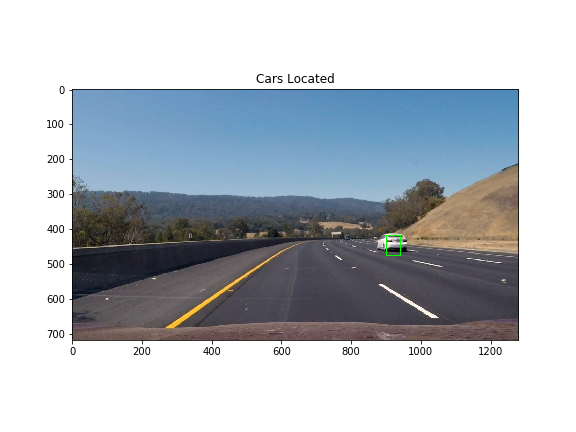
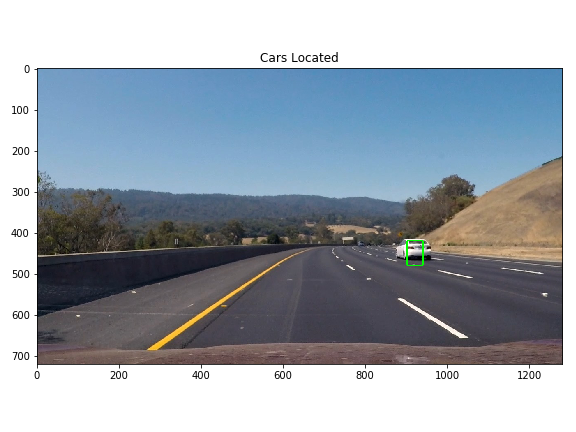
Submission

diff --git a/image_screener.py b/image_screener.py
@@ -254,32 +254,31 @@ for frame in road_images:
     fig = plt.figure(figsize=(8,6))
     plt.imshow(draw_img)
     plt.title('Cars Located')
-    #fig.tight_layout()
+    fig.tight_layout()
     imagefilename="./output_images/figure10_"+str(i)+".png"
     plt.savefig(imagefilename)
     i += 1
 
     fig = plt.figure(figsize=(8,6))
     plt.imshow(test_boxes)
-    plt.title('80 pixel Sliding Window Search')
-    #plt.title('Window Search Hits')
-    #fig.tight_layout()
-    #plt.savefig("./output_images/figure8.png")
-
+    #plt.title('80 pixel Sliding Window Search')
+    plt.title('Window Search Hits')
+    fig.tight_layout()
+    plt.savefig("./output_images/figure8.png")
 
     heat = car_values.getlastheatval()
     heat = heat * 40
     fig = plt.figure(figsize=(8,6))
     plt.imshow(heat,cmap='hot')
     plt.title('Heat Map')
-    #fig.tight_layout()
-    #plt.savefig("./output_images/figure9.png")
+    fig.tight_layout()
+    plt.savefig("./output_images/figure9.png")
 
     fig = plt.figure(figsize=(8,6))
     plt.imshow(histheat,cmap='hot')
     plt.title('Thresholded Binary Heat Map')
-    #plt.savefig("./output_images/figure9a.png")
-    #fig.tight_layout()
+    fig.tight_layout()
+    plt.savefig("./output_images/figure9a.png")
 
     #plt.imshow(heat,cmap='hot')
-'''
+#'''

diff --git a/Assignment5.TonyKnight.md b/Assignment5.TonyKnight.md
@@ -4,19 +4,20 @@
 
 <img src="https://github.com/teeekay/CarND-Vehicle-Detection/blob/master/output_images/videograb00002.png?raw=true"  width=1000>
 
-<i><u>Figure 1 Snapshot from Vehicle Detection Video</u></i>
+<i><u>Figure 1: Snapshot from Vehicle Detection Video</u></i>
 
 ---
 
 
 ### Writeup by Tony Knight - 2017/06/01 
 
+## Training
 
-#### Training Set
+### Training Set
 
-I decided to use the GTI data set as the basis for training the Support Vector Machine Classifier.  However, this data set was slightly imbalanced, with more images which were "non-vehicles" than images of vehicles.  I supplemented the car dataset with 1200 images of cars from the KITTI dataset, producing a total of 4023 images of cars and 4047 images of non-cars in the dataset.  I also added a few samples of "curated" non-car images taken from the project video in order to attempt to train the classifier away from some negative hits.  
+I decided to use the GTI data set as the basis for training the Support Vector Machine Classifier.  However, this data set was slightly imbalanced, with more images which were "non-vehicles" than images of vehicles.  I supplemented the car dataset with 1200 images of cars from the KITTI dataset.   I also added a few samples of "curated" non-car images taken from the project video in order to attempt to train the classifier away from some false positive hits.  This resulted in a total of 4023 images of cars and 4047 images of non-cars (which I trimmed to 4023) in the training dataset .    
 
-For the test dataset I used images of cars from the KITTI dataset (excluding those used in the training set) and non-car images from the extras dataset (taken from the video).  Figure 2 shows images of "cars" and "non-cars" used in the training and test sets.
+For the test dataset I used images of cars from the KITTI dataset (excluding those used in the training set) and non-car images from the extras dataset (taken from the video).  Figure 2 shows images of "cars" and "non-cars" used in the training and test sets.  I took a random sample of approximately 800 images (20% of the size of the training set) from each category in the test set to evaluate the performance of the classifier.
 
 ---
 
@@ -26,12 +27,11 @@ For the test dataset I used images of cars from the KITTI dataset (excluding tho
 
 ---
 
-### Training 
+### Training Features
 
-I decided to use a combination of the color and histogram of gradients (HOG) features to characterize each image patch.  I wanted to make the size of the patches as small as possible in  order to speed up processing during image analysis.  I decided that I would resize the image patches to 16x16 pixels to extract the HOG, and 8x8 pixels to extract color information.  Based on initial tests with the test images I decided to use the YCrCb color space, and to use all 3 of the color channels in the HOG analysis.
+I decided to use a combination of the color and histogram of gradients (HOG) features to characterize each image patch.  I wanted to make the size of the patches as small as possible in  order to speed up processing during image analysis.  I decided that I would resize each image patch to 16x16 pixels to extract the HOG, and 8x8 pixels to extract color information.  Based on initial tests with the test images I decided to use the YCrCb color space, and to use all 3 of the color channels in the HOG analysis.
 
-
-### Histogram of Oriented Gradients (HOG)
+#### Histogram of Oriented Gradients (HOG)
 
 ---
 
@@ -41,24 +41,23 @@ I decided to use a combination of the color and histogram of gradients (HOG) fea
 
 ---
 
-The code to run the HOG analysis is contained in function `extract_features()` and in function `get_hog_features()` in [feature_extraction.py](https://github.com/teeekay/CarND-Vehicle-Detection/blob/master/feature_extraction.py) on lines 94 through 117, and lines 5 to 16 respectively.  The scikit implementation of `hog()` was called from these functions to calculate the HOG features
+The code to run the HOG analysis is contained in function `extract_features()` and in function `get_hog_features()` in [feature_extraction.py](https://github.com/teeekay/CarND-Vehicle-Detection/blob/master/feature_extraction.py) on lines 94 through 117, and lines 5 to 16 respectively.  The scikit implementation of `hog()` was called from `get_hog_features()` to calculate the HOG features.
 
-
-I tried various combinations of parameters and ended up using 4 pixels per side on cells, and using 2x2 cells in a block.  This resulted in a total of 3x3 histograms of gradients from each image.  Part of the reason for selecting this size, was it facilitated implementation of a sliding window with overlap ratios of 0.25, or 0.5 when only calculating HOGs once on the whole image (as 4 histograms are passed over (3 in the patch and one on the boundary of the patch) when sliding a window across the width of a patch in one direction).
+I tried various combinations of parameters and ended up using 4 pixels per side on cells, and using 2x2 cells in a block.  This resulted in a total of 3x3 blocks of 2X2 cells of histograms of gradients from each image.  Part of the reason for selecting this size, was it facilitated implementation of a sliding window with overlap ratios of 0.25, or 0.5 when only calculating HOGs once on the whole image (as 4 blocks are passed over (3 in the patch and one on the boundary of the patch) when sliding a window across the width of a patch in one direction).
 
 I chose to use 9 bins for the orientations of the histograms as it produced good results and using more bins did not improve results.
 
 The selection of these parameters resulted in 3x3x2x2x9=324 HOG features for each  of the 3 color channels on the image patch (972 total). 
 
-I set transform_sqrt to True, even though this slightly increased the hog calculation time, as it appeared to produce better results when I tested the implementation on the video.    
+I set transform_sqrt to True, (normalizing features before calculating HOG) even though this slightly increased the HOG calculation time, as it appeared to produce better results when I tested the implementation on the video.
 
 #### Color features
 
-Using a patch size of 8x8 pixels, the color distribution for each of the Y, Cr and Cb color channels was split between 16 histogram bins in function `color_hist()` in [feature_extraction.py](https://github.com/teeekay/CarND-Vehicle-Detection/blob/master/feature_extraction.py) (lines 32 to 45)  resulting in 48 features.  The value of each pixel in each color channel was also used as a feature resulting in 3x8x8 = 192 features.
+Using a patch size of 8x8 pixels, the color distribution for each of the Y, Cr and Cb color channels was split between 16 histogram bins in function `color_hist()` in [feature_extraction.py](https://github.com/teeekay/CarND-Vehicle-Detection/blob/master/feature_extraction.py) (lines 32 to 45)  and produced 48 features.  The value of each pixel in each color channel was also unraveled in function `bin_spatial()` (lines 19 to 29) and produced 3x8x8 = 192 features.
 
 #### Scaler
 
-The values of the 3 types of features were normalized using Scikits StandardScaler which was fit to the training set on line 99 of [combofeatures.py](https://github.com/teeekay/CarND-Vehicle-Detection/blob/master/combofeatures.py).  Figure 4 and 5 show images of cars and non-cars in the training set, and the resulting plots of features before and after normalization. 
+The values of the 3 types of features (Color Histogram, Color Distribution, HOG) were normalized using Scikit's `StandardScaler()` which was fit to the training set on line 99 of [combofeatures.py](https://github.com/teeekay/CarND-Vehicle-Detection/blob/master/combofeatures.py).  Figures 4 and 5 show images of cars and non-cars in the training set, and the resulting plots of features before and after normalization. 
 
 ---
 
@@ -71,9 +70,9 @@ The values of the 3 types of features were normalized using Scikits StandardScal
 ---
 
 
-#### Training 
+### Training Classifier
 
-A linear SVM classifier was trained in [combofeatures.py](https://github.com/teeekay/CarND-Vehicle-Detection/blob/master/combofeatures.py) between lines 150 and 175. I adjusted the value of C between 0.1 and 1000 by orders of magnitude, but found there was little change in accuracy results on the test set.  The accuracy rates ranged between a low of 92.7 when C was 0.1 and a high of 93.7 when C was set at 10, and back down to 93.1 at C=1000 (The results are shown in figure 6)
+Scikit's `LinearSVC()` SVM classifier was trained and tested in [combofeatures.py](https://github.com/teeekay/CarND-Vehicle-Detection/blob/master/combofeatures.py) between lines 165 and 176.  I adjusted the value of the C hyperparameter between 0.1 and 1000 in steps of orders of magnitude, but found there was little change in accuracy results on the test set.  The accuracy rates ranged between a low of 92.7 when C was 0.1 and a high of 93.7 when C was set at 10, and back down to 93.1 at C=1000 (The results are shown in figure 6)
 
 The error rate generally was due to false positives for detection of cars on images that weren't cars.  Almost all car images were identified as cars.
 
@@ -88,7 +87,15 @@ The error rate generally was due to false positives for detection of cars on ima
 
 ### Sliding Window Search
 
-I initially set up a sliding image search with 5 sizes of windows (edge lengths 40 pixels, 80 pixels, 120 pixels and 200 pixels).  After experimentation, and specifically after visualizing the response when using each size window, I realized that I was able to obtain the best results when using 80 pixel windows alone.  The smaller 40 pixel wide windows did not detect smaller cars on the horizon, but took a large amount of processing time, so I also dropped them.   I found that the use of windows larger than 80 pixels width added more false positives, but did not really add any better detection of cars that were not picked up by the 80 pixel windows.  Furthermore, I limit false positives in the videostream by using a buffer of heat images, and thresholding pixels that have had heat for a specified number of frames.  However, with the larger windows, I found that this caused larger areas to remain hot for long periods and preventing this required the use of a large history threshold (up to 15 frames) which caused a significant delay in displaying valid hits.  Removal of the larger window sizes enabled the history threshold to be reduced down to 5 frames, enabling much faster display of detected cars.   Figure 7 shows the grid of 80 pixel wide windows overlapping at a ratio of 0.25 across an example image frame.
+I initially set up a sliding image search with 5 sizes of windows (edge lengths 40 pixels, 80 pixels, 120 pixels and 200 pixels).  I ran tests with overlap ratios of 0.5 and 0.25, and found that 0.25 produced better results.  After experimentation, and specifically after visualizing the response when using each size window, I realized that I was able to obtain the best results when using 80 pixel windows alone.  
+
+Use of the smaller 40 pixel wide windows did not detect smaller cars on the horizon, but required a large amount of processing time, so I dropped them.
+
+I found that the additional use of windows larger than 80 pixels width added more false positives, but did not really add any better detection of cars that were not picked up by the 80 pixel windows.  The program attempts to limit displaying false positives in the videostream by using a buffer of heat image frames, and thresholding for pixels that have had heat for a specified number of frames.  However, when using the larger windows, I found that large areas remained "hot" for long periods in areas where false positives were detected. The history buffer threshold had to be increased to a relatively large threshold (up to 15 frames) to eliminate these false positives.  This had negative effect of causing a significant delay in displaying valid detection of new cars.
+
+Removal of the larger window sizes enabled the history threshold to be reduced down to 5 frames, which resulted in much faster response to detected cars.
+
+Figure 7 shows the grid of 80 pixel wide windows overlapping at a ratio of 0.25 across an example image frame.
 
 ---
 
@@ -98,9 +105,9 @@ I initially set up a sliding image search with 5 sizes of windows (edge lengths 
 
 ---
 
-The sliding windows algorithm was implemented in the function `process_windows()` in [MultiWindow.py](https://github.com/teeekay/CarND-Vehicle-Detection/blob/master/MultiWindow.py).  I attempted to optimize the algorithm with a single run on the HOG gradients for the entire image strip that the sliding windows passed over for each window size.  Implementing this caused me to resize the HOG window size (as described above) to 16x16 so that it was easier to set up specific overlap ratios with this method.
+The sliding windows algorithm was implemented in the function `process_windows()` in [MultiWindow.py](https://github.com/teeekay/CarND-Vehicle-Detection/blob/master/MultiWindow.py).  I attempted to optimize the algorithm with a single run on the HOG gradients for the entire image strip that the sliding windows passed over for each window size.  Implementing this feature caused me to resize the HOG window size (as described in the HOG features section above) to 16x16 so that it was easier to set up specific overlap ratios with this method.
 
-Figures 8, 9 and 10 illustrate the process of car detection;  In figure 8 the SVM has identified overlapping patches as containing car(s).  In Figure 9 the pixels in the overlapping patches have been summed to create a heatmap. In figure 10 a bounding box has been drawn to encompass all pixels with heat values in excess of a threshold value, and this corresponds approximately to the car location(s). 
+Figures 8, 9 and 10 illustrate the process of car detection with sliding windows;  In figure 8, the SVM has identified overlapping patches as containing car(s).  In Figure 9, the pixels in the overlapping patches have been summed to create a heatmap. In figure 10, a bounding box has been drawn to encompass all contiguous pixels with heat values in excess of a threshold value, corresponding approximately to the car location(s). 
  
 ---
 
@@ -122,7 +129,7 @@ Figures 8, 9 and 10 illustrate the process of car detection;  In figure 8 the SV
 
 ---
 
-The following images demonstrate how the process was able to correctly identify the cars on all of the images in the test_images folder without false positives.  A threshold heat value of 4 was used to discriminate against false positives.
+The following images demonstrate how the process was able to correctly identify the cars on all of the images in the test_images folder without false positives.  A threshold heat value of 4 was used to discriminate against false positives (a history threshold of 1 was used as only one frame was analyzed).
 
 ---
 
@@ -141,41 +148,63 @@ The following images demonstrate how the process was able to correctly identify 
 ### Video Implementation
 
 
-Here's my [project_video](./project_video_outputA.mp4). The code to generate the video is called from [videoprocessor.py](https://github.com/teeekay/CarND-Vehicle-Detection/blob/master/videoprocessor.py) and in [image_screener.py](https://github.com/teeekay/CarND-Vehicle-Detection/blob/master/image_screener.py).  I was also able to add in my code from the lane detection project to enable a combined output of lane detection and vehicle detection.
+Here's a link to my [project_video](./project_video_outputA.mp4). The code to generate the video is called from [videoprocessor.py](https://github.com/teeekay/CarND-Vehicle-Detection/blob/master/videoprocessor.py) and in [image_screener.py](https://github.com/teeekay/CarND-Vehicle-Detection/blob/master/image_screener.py).  I was also able to add in my code from the lane detection project to produce a combined output of lane detection and vehicle detection.
 
-### Filtering strategy for video
+#### Filtering strategy for video
 
-The combination of the hard edge on the median wall, which occasionally generates false positives on it's own, and partial views of cars above the median wall combine to create heat values above the threshold value.  
+The combination of the hard edge on the median wall, which occasionally generates false positives on its own, and the partial views of cars above the median wall combine to create heat values above the threshold value.  
 
-I implemented a circular buffer (lines 111 to 137 of image_screener.py)  into which I put frames of the heat values generated so that I could threshold the heat values based of the numbers of "hits" on each pixel in the buffer.  For example I could set up the buffer to hold 20 frames, and threshold pixels that had hits on 15 of the frames in the buffer.  I found this level of "history threshold" was required when I was using multiple size windows.  This resulted in a more than 0.5 second delay after a car was first seen before it could be displayed, which I did not consider to be optimal.
+I implemented a circular buffer (lines 111 to 137 of [image_screener.py](https://github.com/teeekay/CarND-Vehicle-Detection/blob/master/image_screener.py)) into which I put frames of the heat values generated so that I could threshold the heat values based on the numbers of "hits" on each pixel in the buffer.  For example, I could set up the buffer to hold 20 frames, and threshold pixels that had hits on 15 of the frames in the buffer.  I found this level of "history threshold" was required when I was using multiple size windows.  This resulted in a more than 0.5 second delay after a car was first seen before it could be displayed, which I did not consider to be optimal.
 
-I adjusted the buffer so that I could store heat values obtained individually for each size (up to 3 in implementation) window used.  This allowed me to display the heat generated from each window size at the right of the output video to better see what was going on.  Once I did this, I realized that I only really needed to use the one size of window (80 pixels per side).  When I reverted to using only size 80 pixel windows, I found that the history threshold could be reduced to 5 frames in a 7 frame buffer to get a good result with occasional false positives at the left of the screen.  
+I adjusted the buffer so that I could store heat values obtained individually for each size window used.  This allowed me to display the heat generated from each window size at the right of the output video to better visualize what was going on.  Once I did this, I realized that I only really needed to use the one size of window (80 pixels per side).  When I reverted to using only size 80 pixel windows, I found that the history threshold could be reduced to 5 frames in a 7 frame buffer to get relatively good results with only occasional false positives at the left side of the screen.  
 
-Another issue in this implementation of the history threshold is during situations where the car goes over a bump, all the objects are displaced rapidly in the image for a few frames, which might cause the history threshold to prevent them from being displayed.  Also oncoming cars may move across the screen too fast to allow detection if the the history threshold is set too high.
+An issue in this implementation of the history threshold is that when the car goes over a bump (22.5s to 24 s in the video), all the objects are displaced rapidly in the image for a few frames, which causes the history threshold to prevent detected objects from being displayed.  The history threshold may also prevent oncoming cars from being displayed well as they could move across the screen too fast to allow detection in the same area of the screen on subsequent frames.
 
-When determining the appropriate heat threshold to use, I had to consider both eliminating false positives, but also maintaining detection of faint positives (e.g. the white car at t=24 to 30s) for as long as possible.  I selected a threshold of 5 which worked relatively well, but I have thought of other possible strategies to improve overall detection (maybe tying the threshold to the vertical position so that the threshold is decreased as the item moves up the screen (and becomes smaller)).
+When determining the appropriate heat threshold to use, I had to consider both eliminating false positives, but also maintaining detection of faint positives (e.g. the white car at t=24 to 30s) for as long as possible.  The optimal heat threshold was between 4 and 5, and I selected 5 which worked relatively well, but did eliminate the white car detection in some sections of the video where it was detected at a value of 4. 
 
-### Bounding Boxes
+I have thought of other possible strategies to improve overall detection (including tying the heat threshold to the vertical position so that the threshold is decreased as the item moves up the screen (and becomes smaller)).
 
-The functions to create and threshold heatmaps and then generate bounding boxes around the label instances are located in image_screener.py between lines 32 and 92.   
+#### Bounding Boxes
+
+The functions to create and threshold heatmaps and then generate bounding boxes around the label instances are located in [image_screener.py](https://github.com/teeekay/CarND-Vehicle-Detection/blob/master/image_screener.py) between lines 32 and 92. As discussed above, the heat values are calculated by incrementing the value at each pixel for every window it is contained in that the SVM identifies as being a car.  In each frame, these values are thresholded so values below the threshold are set to 0.  All the remaining values are set to 1.  The sum of pixels across the multiple frames in the buffer is calculated and this is used to threshold the heat values so any pixels where the buffer total is less than the history_threshold are also set to zero.  This produces a binary image as shown in figure 12.  
+
+---
+
+<img src="https://github.com/teeekay/CarND-Vehicle-Detection/blob/master/output_images/figure9a.png?raw=true"  width=700>
+
+<i><u>Figure 12: Binary Thresholded Image of Heat Values</u></i>
+
+---
+
+SciPy's `ndimage.measurements.label()` function is called to locate the separate contiguous instances of thresholded values in the binary image.  The `draw_labeled_bboxes()` function on lines 68 to 92 of image_screener.py extracts the top left and bottom right co-ordinates of the labelled areas, and then draws bounding boxes.  For this video, the function was optimized to draw the boxes in different colors, and to attempt to maintain the same object in the same color for as long as possible.  The `label()` function produces a list sorted from the top to bottom of the image.  Since the main targets in the video were located on the right side of the image, the box locations were re-sorted by their right hand co-ordinates to make boxes at the right side of the image the first targets drawn.
 
 
-### Classifier Improvement
+#### Classifier Improvement
 
-The classifier was often triggered by the yellow lines and median barrier (possibly in combination with one or two distinct spots) at the left side of the lane.  I attempted to improve performance by adding a set of images cropped from these areas and adding them to the training set as non-car images.  I did not see as much response from the yellow lines after this, but the median barrier continued to trigger the classifier.  I may not have added enough images at the correct scale to provide enough negative results to prevent false positives in this situation.
+The classifier often detected false positives on patches containing the yellow lines and median barrier (possibly in combination with one or two distinct spots) at the left side of the lane.  I attempted to improve performance by cropping a set of images from these areas (in space and time) of the video and adding them to the training set as non-car images.  I did not see as much response from the yellow lines after this, but the median barrier continued to trigger the classifier.  I may not have added enough images of the top of the median at the correct scale to bias the classifier against this image.
 
+As discussed above, in the training section, I explored the effect of adjusting the Hyperparameter value used in the classifier, and adjusted the value of C to 10 from the default of 1 for a small improvement in accuracy.
 
 ### Discussion
 
+#### Speed of Implementation
+
 I found that on my computer, the car detection algorithm took approximately 0.12 seconds per frame which is about 1/6th the speed required (although when combined with the lane detection it took about 0.5 secs per frame).  I think the code could be optimized and rewritten in C to run fast enough to produce real-time output.  However, convolutional neural network approaches like [YOLO](https://pjreddie.com/darknet/yolo/) and [YOLT](https://medium.com/the-downlinq/you-only-look-twice-multi-scale-object-detection-in-satellite-imagery-with-convolutional-neural-38dad1cf7571) look like they would be more flexible and just as fast (especially if running on GPU like hardware).
 
-Although there was a relatively large image set to use when training the SVM, it appeared that the set did not cover all image conditions, and may have more dark than light cars.  I think that reduced false positives could be found with a larger variety of non-car images.  
+#### Training Set
 
-As discussed above, the threshold values could be tied to vertical position to enable better detection of cars further up the image.  
+Although there was a relatively large image set to use when training the SVM, it appeared that the set did not cover all image conditions, and may have included more dark than light cars.  I think that reduced false positives would have been produced with a larger variety of non-car images.
 
-Use of the history threshold enabled a small amount of stabilization of the detected car shape.  It was still quite jittery.  This could be improved by storing the shape for each frame, and averaging it over multiple frames.
+#### Threshold Values
 
-Models of expected car motions could be implemented to attempt to handle the following four main situations and to enable better tracking and assessment of risk from the objects:
+As discussed above, the use of a heat threshold value and (possibly the history threshold value) which varied according to the position on the Frame could be explored to evaluate if it would enable better detection of cars further up the image, and better response to oncoming cars at the left of the image.  
+
+#### Object Bounding Box
+
+Use of the history threshold enabled a small amount of stabilization of the detected car shape.  It was still quite jittery.  This could be improved by storing the shape for each frame, and averaging it over multiple frames.  A better solution would probably involve maintaining dimensions of objects combined with tracking the associated center of mass of the object in each frame.  This could be used to better track the motion of the object, and differentiate between different objects.  This could be further enhanced to implement models of the detected objects with the following characteristics (size, velocity, direction, distance).
+
+Models of expected car motions could attempt to accommodate the following four situations that I think should be expected and would enable the system to assess risk from the objects:
+
  a) cars parallel to the car at relatively slow speeds compared to the car,
  b) stationary cars (e.g. parked at the side of the road),
  c) oncoming cars moving towards the car at high speed,
